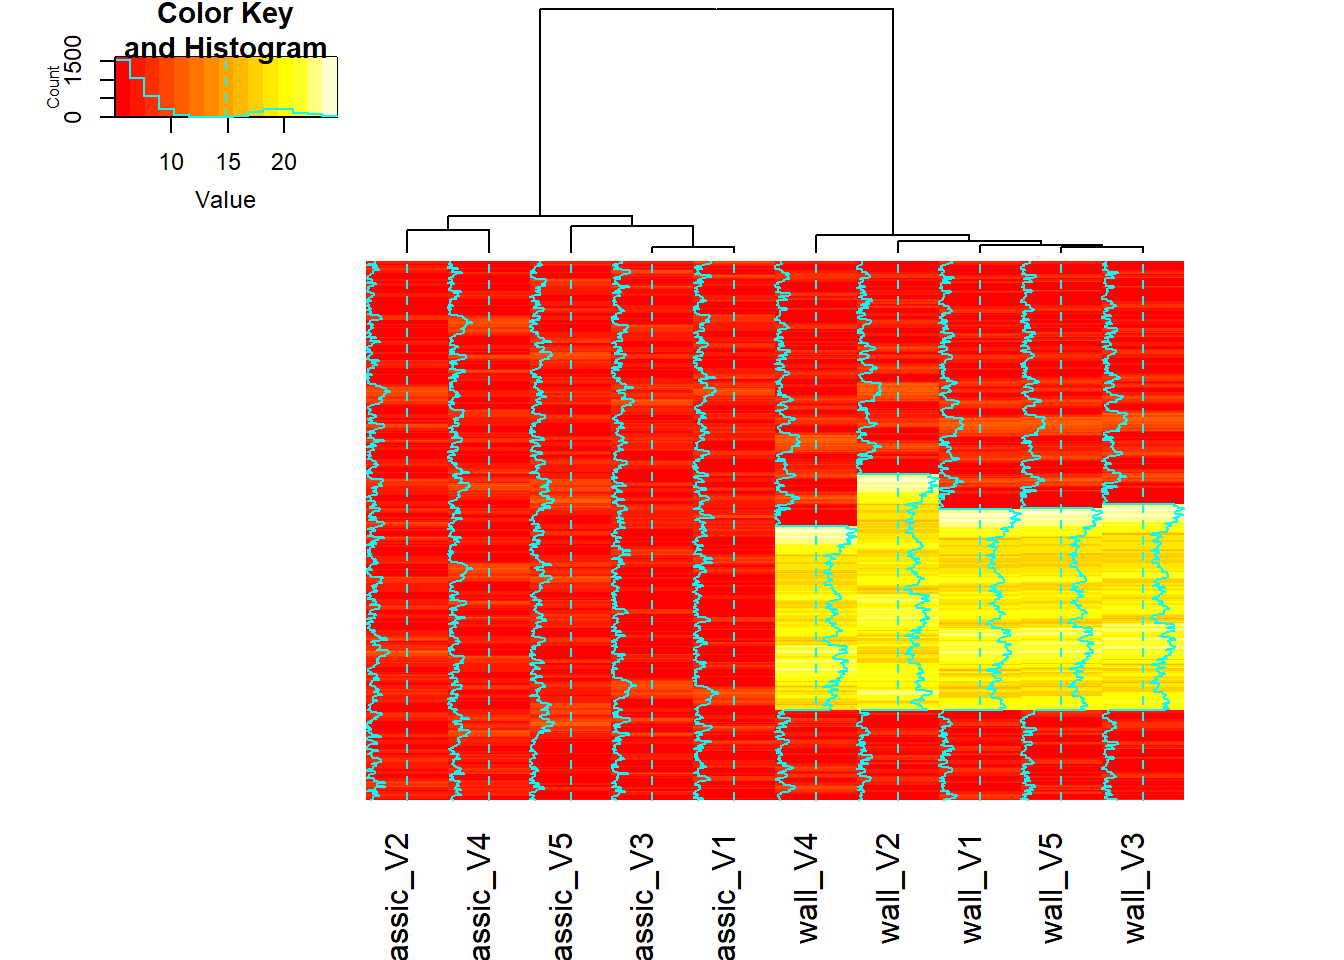
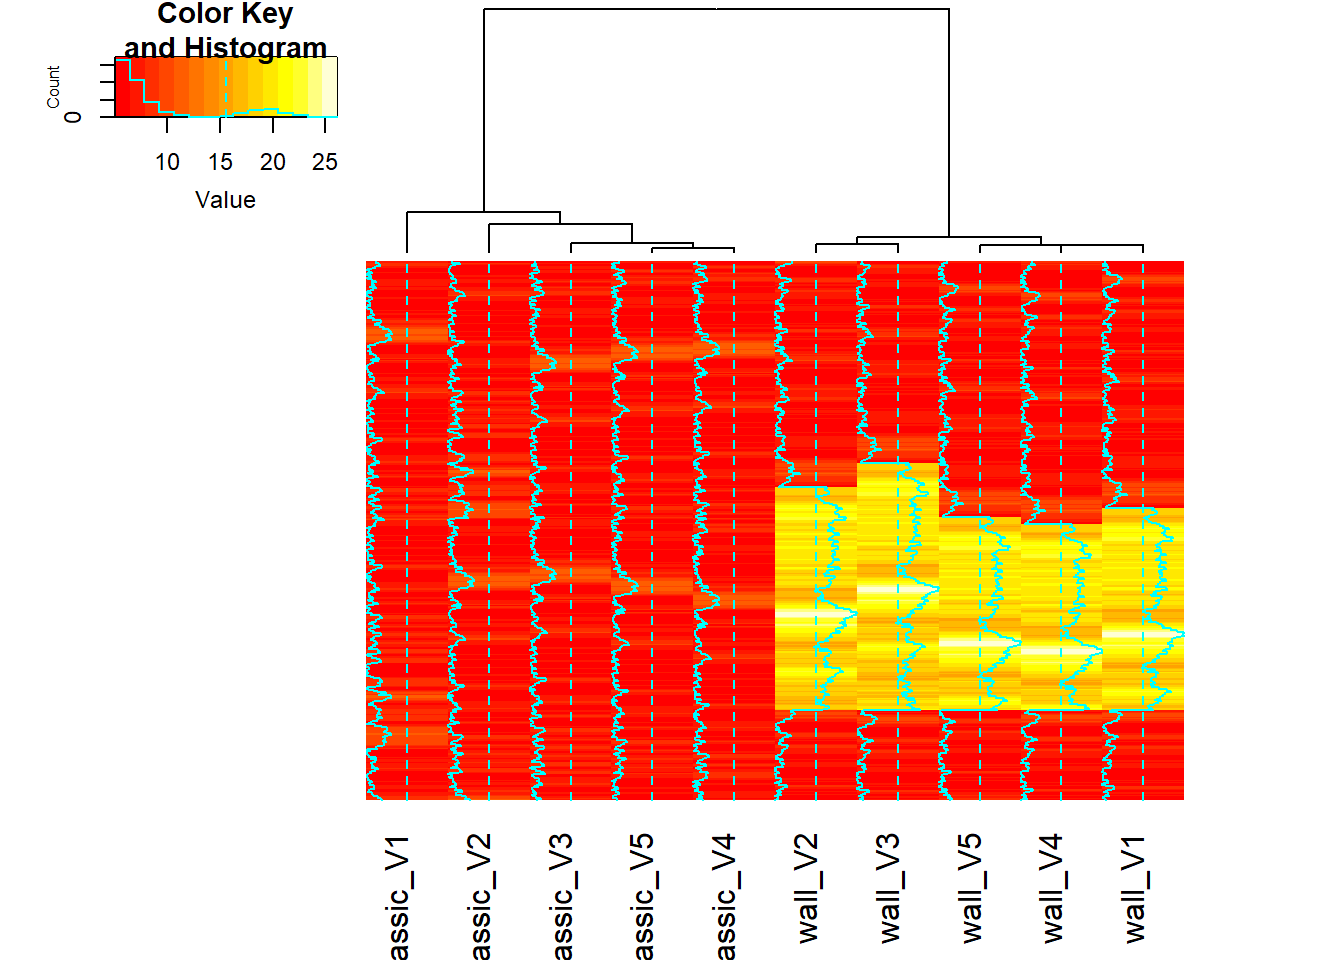
DTWARP

diff --git a/content/post/2018-09-06-time-series-clustering-with-dynamic-time-warp.html b/content/post/2018-09-06-time-series-clustering-with-dynamic-time-warp.html
@@ -1,13 +1,13 @@
 ---
-title: Time series clustering with Dynamic Time Warping
+title: "Time series clustering with Dynamic Time Warping"
 author: ''
 date: '2018-09-06'
-slug: time-series-clustering-with-dynamic-time-warp
-categories: []
-tags: []
 header:
   caption: ''
   image: ''
+slug: time-series-clustering-with-dynamic-time-warp
+tags: []
+categories: []
 ---
 
 
@@ -116,7 +116,7 @@ ts_sim_df %&gt;%
 <div id="using-tsclust" class="section level2">
 <h2>Using <code>TSclust</code></h2>
 <pre class="r"><code># cluster analysis
-dist_ts &lt;- TSclust::diss(SERIES = t(ts_sim_df), METHOD = &quot;DTW&quot;) # note the dataframe must be transposed
+dist_ts &lt;- TSclust::diss(SERIES = t(ts_sim_df), METHOD = &quot;DTWARP&quot;) # note the dataframe must be transposed
 hc &lt;- stats::hclust(dist_ts, method=&quot;complete&quot;) # meathod can be also &quot;average&quot; or diana (for DIvisive ANAlysis Clustering)
 # k for cluster which is 2 in our case (classic vs. wall)
 hclus &lt;- stats::cutree(hc, k = 2) %&gt;% # hclus &lt;- cluster::pam(dist_ts, k = 2)$clustering has a similar result

diff --git a/public/post/time-series-clustering-with-dynamic-time-warp/index.html b/public/post/time-series-clustering-with-dynamic-time-warp/index.html
@@ -494,7 +494,7 @@ ts_sim_df %&gt;%
 <div id="using-tsclust" class="section level2">
 <h2>Using <code>TSclust</code></h2>
 <pre class="r"><code># cluster analysis
-dist_ts &lt;- TSclust::diss(SERIES = t(ts_sim_df), METHOD = &quot;DTW&quot;) # note the dataframe must be transposed
+dist_ts &lt;- TSclust::diss(SERIES = t(ts_sim_df), METHOD = &quot;DTWARP&quot;) # note the dataframe must be transposed
 hc &lt;- stats::hclust(dist_ts, method=&quot;complete&quot;) # meathod can be also &quot;average&quot; or diana (for DIvisive ANAlysis Clustering)
 # k for cluster which is 2 in our case (classic vs. wall)
 hclus &lt;- stats::cutree(hc, k = 2) %&gt;% # hclus &lt;- cluster::pam(dist_ts, k = 2)$clustering has a similar result
